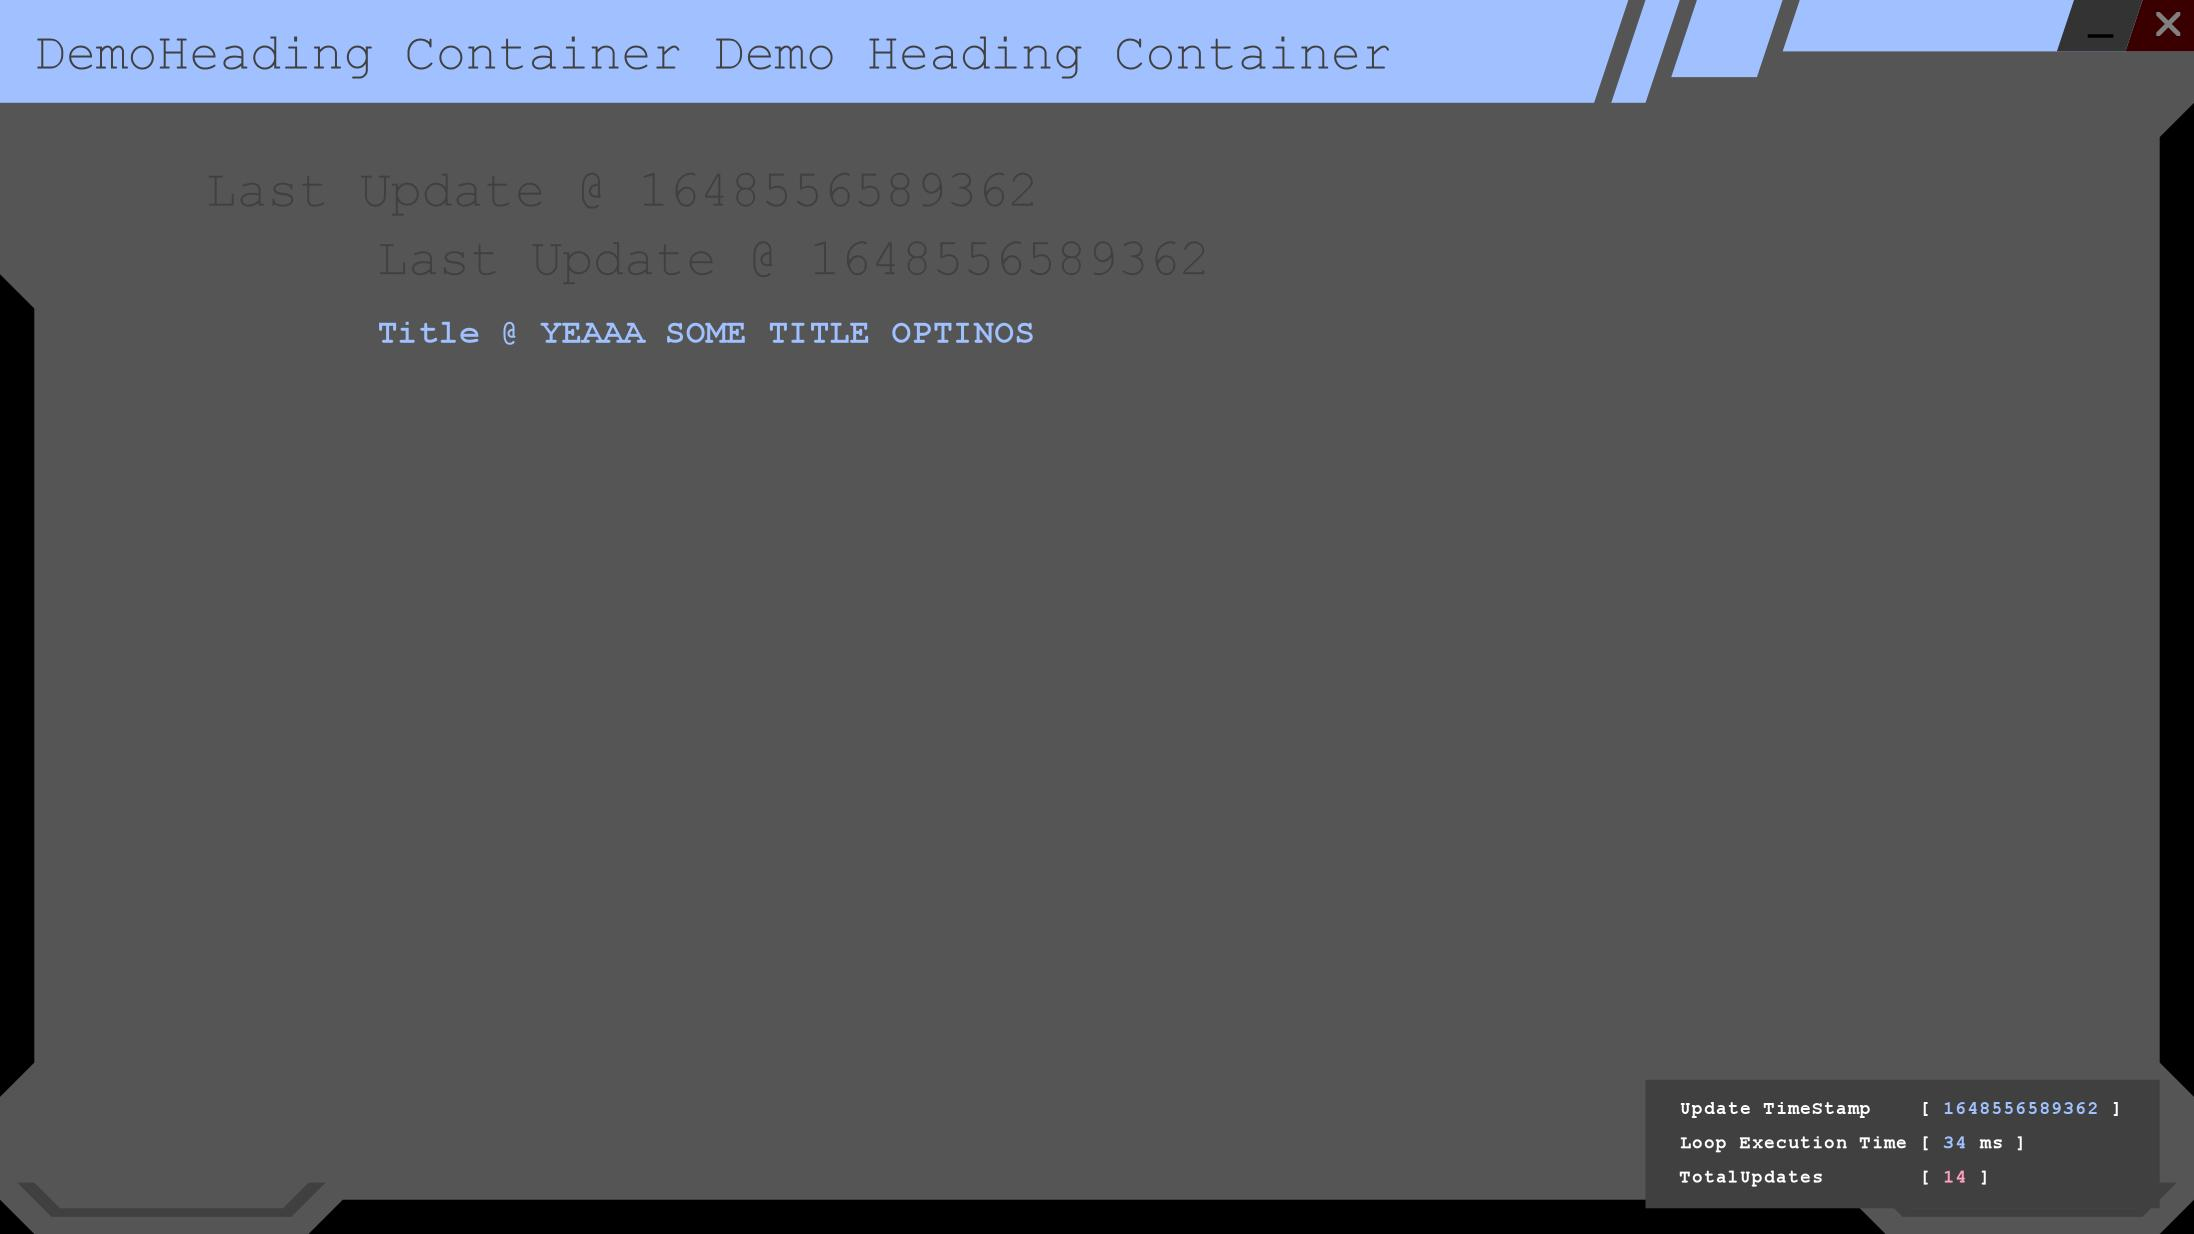
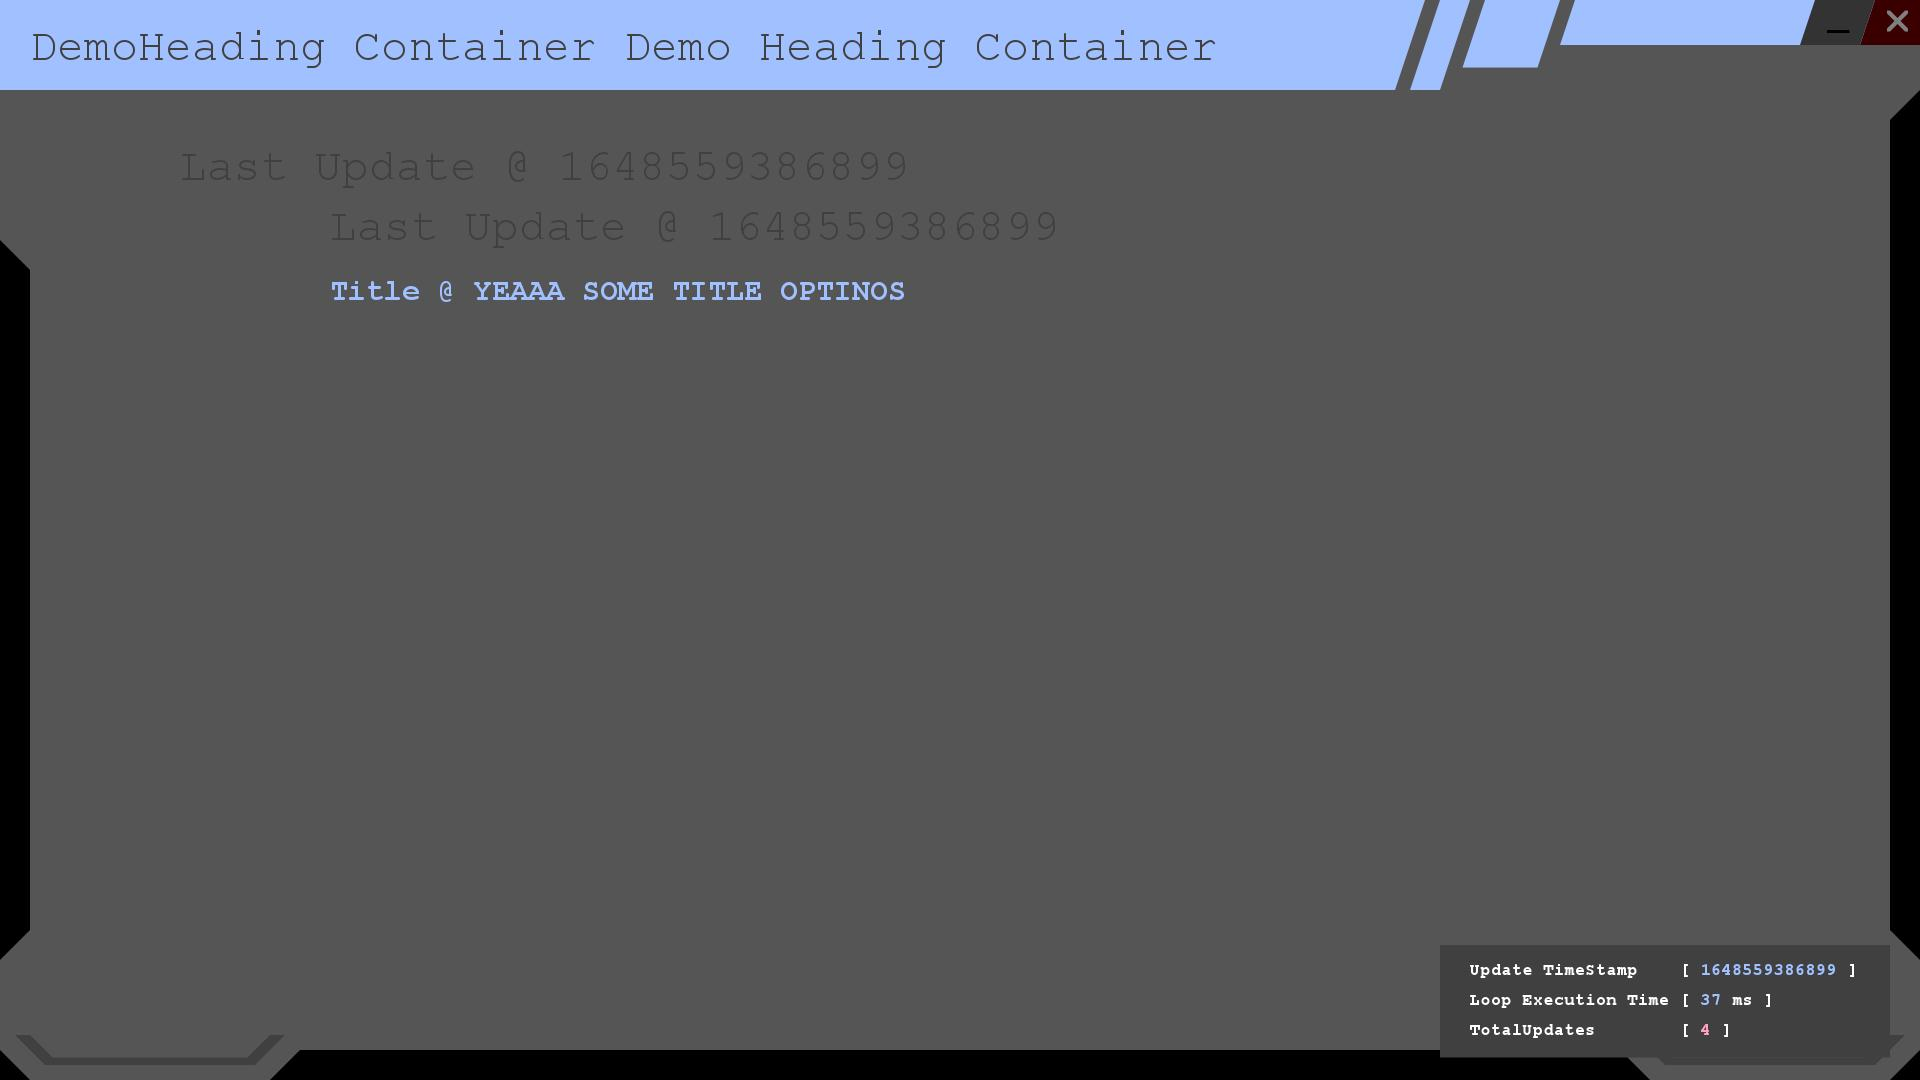
yea fixes

diff --git a/src/v_watch/index.js b/src/v_watch/index.js
@@ -6,10 +6,6 @@ var VobCore = null;
 
 const v_watch = {
 
-  config: {
-
-  },
-
   options: {
     exitSignal: false,
     status: 'not-running',
@@ -23,11 +19,11 @@ const v_watch = {
         description: "will print to console just to get hearth bumping...",
         interval: 1000,
         lastCheck: 0,
-        exec ()  {
+        exec() {
           var tri = this.interval;
           console.log('\n\n💓 [.ARI.] >> [ 1000 || 1s ] => BASE_BEAT\n');
-          console.log('Free RAM: '+ v_os.freememproc() +'% ');
-          if (v_os.freememproc() < 40 ) {
+          console.log('Free RAM: ' + v_os.freememproc() + '% ');
+          if (v_os.freememproc() < 15) {
             Votify.app.lowsysmem();
           }
         },
@@ -37,7 +33,7 @@ const v_watch = {
         description: "will print to console just to get hearth bumping...",
         interval: 2000,
         lastCheck: 0,
-        exec ()  {
+        exec() {
           console.log('🔥 [.ARI.] >> [ 2000 || 2s ] => Every Second Hit\n');
         },
       },
@@ -46,7 +42,7 @@ const v_watch = {
         description: "will print to console just to get hearth bumping...",
         interval: 5000,
         lastCheck: 0,
-        exec () {
+        exec() {
           console.log('🚀 [.ARI.] >> [ 5000 || 5s ] => Every 5th Hit\n');
         },
       },
@@ -55,7 +51,7 @@ const v_watch = {
         description: "will print to console just to get hearth bumping...",
         interval: 10000,
         lastCheck: 0,
-        exec () {
+        exec() {
           //console.log(desktopIdle.getIdleTime());
           console.log('🎮 [.ARI.] >> [ 10000 || 10s ] => 10th Hearth Beat\n');
         },
@@ -65,7 +61,7 @@ const v_watch = {
         description: "will print to console just to get hearth bumping...",
         interval: 15000,
         lastCheck: 0,
-        exec () {
+        exec() {
           console.log('🚨 [.ARI.] >> [ 15000 || 15s ] => 15th Hearth Beat\n');
         },
       },
@@ -74,32 +70,31 @@ const v_watch = {
         description: "will print to console just to get hearth bumping...",
         interval: 30000,
         lastCheck: 0,
-        exec () {
+        exec() {
           console.log('🎉 [.ARI.] >> [ 30000 || 30s ] => 30th Hearth Beat\n');
         },
       }
     ],
   },
 
-  mainLoop () {
-    Votify.app.starting();
+  mainLoop() {
     VobCore = setInterval(() => {
       console.time("Tick_Exec_Time");
       var timeOf = Date.now();
       //console.log(this.options.tickTime);
       this.data.actions.forEach(item => {
-        if ( (timeOf - item.lastCheck ) > item.interval){
+        if ((timeOf - item.lastCheck) > item.interval) {
           //console.log("EXECUTING >>> " +item.name);
           item.exec();
           item.lastCheck = timeOf;
         }
       });
-      
+
       console.timeEnd("Tick_Exec_Time");
     }, this.options.tickTime);
   },
 
-  init(){
+  init() {
     console.log("<[- v_watch @ INIT() -]>");
     this.mainLoop();
   }

diff --git a/src/helpers/v_notify/index.js b/src/helpers/v_notify/index.js
@@ -1,27 +1,22 @@
 const notifier = require('node-notifier');
-const notifList = require('../../data/notifications.list');
+const notificationList = require('../../data/notifications.list');
 
 const Votify = {
-  app : {
-    starting: ()=> {
-      notifier.notify(notifList.app.starting);
-    },
-    stopping: ()=> {
-      notifier.notify(notifList.app.stopping);
-    },
-    lowsysmem: ()=> {
-      notifier.notify(notifList.app.lowsysmem);
-    }
+  app: {
+    starting: () => notifier.notify(notificationList.app.starting),
+    stopping: () => notifier.notify(notificationList.app.stopping),
+    lowsysmem: () => notifier.notify(notificationList.app.lowsysmem)
+
   },
-  tray : {
-    leftClick: ()=> {
-      notifier.notify(notifList.tray.leftClick);
+  tray: {
+    leftClick: () => {
+      notifier.notify(notificationList.tray.leftClick);
     },
-    rightClick: ()=> {
-      notifier.notify(notifList.tray.rightClick);
+    rightClick: () => {
+      notifier.notify(notificationList.tray.rightClick);
     }
   }
-}
+};
 
 
 module.exports = Votify;

diff --git a/src/V_BackgroundGUI/index.js b/src/V_BackgroundGUI/index.js
@@ -17,6 +17,8 @@ function backgroundGUI(data = {}) {
     heightScaled: 1,
   };
 
+  this.autoInit = data.autoInit || true;
+
   this.scale = data.scale || 0.5;
 
   this.totalUpdates = 0;
@@ -58,11 +60,15 @@ function backgroundGUI(data = {}) {
 
 
   this.start = () => {
+
+    this.getScreenSize();
+
     this.loopObj = setInterval(async () => {
       var time_01 = Date.now();
       svg2img(mainSVG_Template({ title: "YEAAA SOME TITLE OPTINOS", totalUpdates: this.totalUpdates, lastExecTimeVal: this.lastExecTimeVal }), { 'width': this.screen.widthScaled, 'height': this.screen.heightScaled, format: 'jpg', 'quality': 60 }, this.saveFile);
       this.lastExecTimeVal = Date.now() - time_01;
     }, this.interval);
+
   };
 
 
@@ -74,17 +80,6 @@ function backgroundGUI(data = {}) {
   };
 
 
-  process.on('exit',() => {
-    console.log("process.exit() method is fired");
-    this.stop();
-  });
-  
-  process.on('SIGINT', function() {
-    console.log("Caught interrupt signal");
-    process.exit();
-  });
-
-  this.getScreenSize();
   this.start();
 
 }

diff --git a/index.js b/index.js
@@ -1,9 +1,11 @@
 console.time("v_watch_:.:_Application_BOOT_Time");
+const notify = require('./src/helpers/v_notify');
 
+notify.app.starting();
 
 // System Background GUI
 const backgroundGUI = require('./src/V_BackgroundGUI');
-var vBackgroundGUI = new backgroundGUI({ interval: 1000, scale: 1 });
+var vBackgroundGUI = new backgroundGUI({ interval: 30000, scale: 1 });
 
 
 // Windows System Tray Icon and Menu
@@ -13,5 +15,19 @@ require('./src/helpers/v_tray');
 // v_watch - Tasks Queue Runner
 require('./src/v_watch');
 
+
+// Exit Handler
+process.on('SIGINT', () => {
+  console.log("Caught interrupt signal");
+
+  // vBackgroundGUI Terminate
+  vBackgroundGUI.stop();
+
+  // Send Notification that we are about to stop running
+  notify.app.stopping();
+
+  // Set timeout to wait for all tasks to finish
+  setTimeout(() => process.exit(0), 1000);
+});
 
 console.timeEnd("v_watch_:.:_Application_BOOT_Time");

diff --git a/src/data/notifications.list.js b/src/data/notifications.list.js
@@ -7,12 +7,12 @@ const notifList = {
     starting: {
       appID: "v_watch",
       title: 'v_watch - Starting',
-      message: 'OS Monitoring STARTING...',
+      message: 'OS Monitor STARTING...🚀',
     },
     stopping: {
         appID: "v_watch",
-        title: 'v_watch - Starting',
-        message: 'OS Monitoring STOPPING...',
+        title: 'v_watch - Exiting',
+        message: 'vOS Monitor STOPPING...🙋♂',
     },
     lowsysmem: {
         appID: "v_watch",

diff --git a/src/helpers/v_tray/index.js b/src/helpers/v_tray/index.js
@@ -122,7 +122,7 @@ var onShutdown = function (cb) {
 var shutdown = function () {
   console.log('Shutdown!');
   v_tray.destroy();
-  process.exit(0);
+  process.emit('SIGINT');
 };
 
 module.exports = v_tray;

diff --git a/src/V_BackgroundGUI/run.js b/src/V_BackgroundGUI/run.js
@@ -1,0 +1,3 @@
+// System Background GUI
+const backgroundGUI = require('.');
+var vBackgroundGUI = new backgroundGUI({ interval: 20000, scale: 1 });
